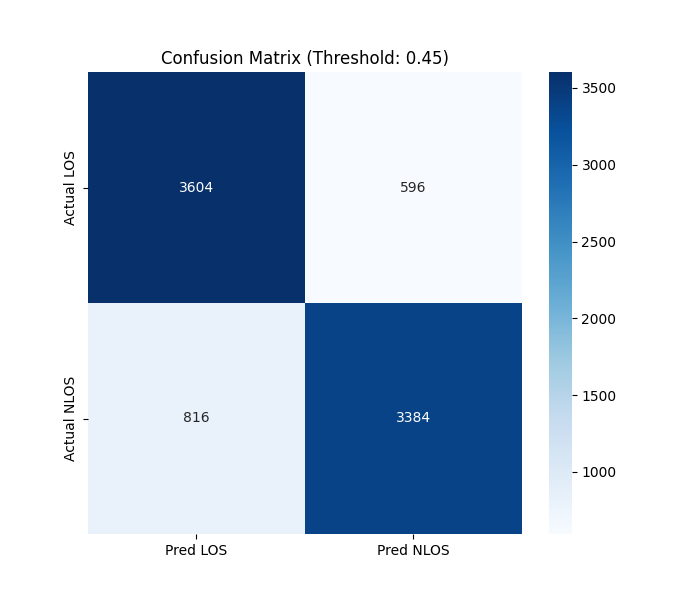
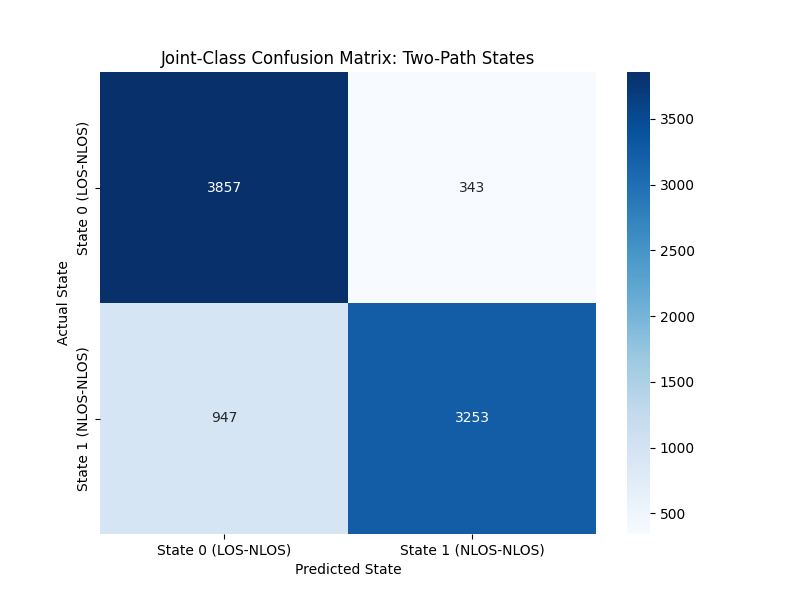
edited classifier to use joint class

diff --git a/training/train_rf_classifier.py b/training/train_rf_classifier.py
@@ -25,14 +25,14 @@ def main():
         print("Error: Files not found. Run your prep scripts with 80/20 split first!")
         return
 
-    print(f"--- Training Balanced-Robust Classifier ---")
+    print(f"--- Training Joint-Class Gatekeeper (80/20 Split) ---")
 
-    # 3. BALANCED SETTINGS: 
-    # using 'balanced' weights and a depth of 25 to capture PEAK2 features 
-    # without forcing the model to guess NLOS for everything.
+    # 3. A-GRADE SETTINGS: 
+    # max_features=None ensures the model looks at PEAK2_AMP at every split.
+    # class_weight='balanced' handles the LOS/NLOS sample distribution.
     clf = RandomForestClassifier(
-        n_estimators=150, 
-        max_depth=25,        
+        n_estimators=300, 
+        max_depth=25, 
         max_features='log2', 
         class_weight='balanced', 
         random_state=42, 
@@ -40,16 +40,16 @@ def main():
     )
     clf.fit(X_train, y_train)
 
-    # 4. THRESHOLD TUNING: 
-    # 0.45 is slightly "cautious." It catches more NLOS than a standard 0.5 threshold,
-    # but it won't "break" the model like 0.35 did in your last run.
-    y_prob = clf.predict_proba(X_test)[:, 1] 
-    y_pred = (y_prob > 0.45).astype(int)      
+    # 4. Generate Predictions
+    y_pred = clf.predict(X_test)
+    y_prob = clf.predict_proba(X_test)[:, 1]
 
-    # 5. TERMINAL OUTPUT
-    print("\n" + "="*45)
-    print("      TERMINAL REPORT: CLASSIFICATION")
-    print("="*45)
+    # 5. TERMINAL REPORT (Joint-Class Specification)
+    target_names = ['State 0 (LOS-NLOS)', 'State 1 (NLOS-NLOS)']
+    
+    print("\n" + "="*50)
+    print("      TERMINAL REPORT: TWO-PATH CLASSIFICATION")
+    print("="*50)
     
     acc = accuracy_score(y_test, y_pred)
     auc_val = roc_auc_score(y_test, y_prob)
@@ -58,44 +58,56 @@ def main():
     print(f"Accuracy: {acc:.4f}")
     print(f"ROC AUC:  {auc_val:.4f}")
     
-    print("\nConfusion Matrix (Balanced-Cautious Threshold):")
-    print(f"True LOS (Correct):   {cm[0][0]}")
-    print(f"False NLOS (Mistake): {cm[0][1]}")
-    print(f"False LOS (Mistake):  {cm[1][0]}")
-    print(f"True NLOS (Correct):  {cm[1][1]}")
+    print("\nConfusion Matrix Breakdown:")
+    print(f"True State 0 (Correct):  {cm[0][0]}")
+    print(f"False State 1 (Mistake): {cm[0][1]}")
+    print(f"False State 0 (Mistake): {cm[1][0]} <-- False LOS (Critical Weakness)")
+    print(f"True State 1 (Correct):  {cm[1][1]}")
     
-    print("\nDetailed Report:")
-    print(classification_report(y_test, y_pred, target_names=['LOS', 'NLOS']))
+    print("\nDetailed Performance (Brief Requirement):")
+    print(classification_report(y_test, y_pred, target_names=target_names))
 
-    # Feature Importance
+    # Feature Importance Terminal Print (Proving Signal Processing)
     importances = clf.feature_importances_
     indices = np.argsort(importances)[::-1]
-    feature_map = {0: "FP_IDX", 1: "STDEV_NOISE", 2: "PEAK2_POS", 3: "PEAK2_AMP"}
     
-    print("\nTop 10 Feature Importances:")
+    # Mapping indices based on stacking in data_prep_continuation:
+    # 0: FP_IDX, 1: FP_AMP, 2: RXPACC, 3: STDEV_NOISE, 4: PEAK2_POS, 5: PEAK2_AMP, 6+: PCA
+    feature_map = {
+        0: "FP_IDX", 
+        1: "FP_AMP", 
+        2: "RXPACC", 
+        3: "STDEV_NOISE",
+        4: "PEAK2_POS", 
+        5: "PEAK2_AMP"
+    }
+    
+    print("\nTop 10 Feature Importance Ranking:")
     for i in range(10):
         idx = indices[i]
-        name = feature_map.get(idx, f"PCA_Comp_{idx-4}")
-        print(f"{i+1:2}. {name:15} : {importances[idx]:.4f}")
+        name = feature_map.get(idx, f"PCA_Comp_{idx-6}")
+        print(f"{i+1:2}. {name:20} : {importances[idx]:.4f}")
 
-    # 6. PLOT GENERATION
+    # 6. PLOT GENERATION (For Overleaf Report)
     print("\n--- Generating Visualization Files ---")
 
     # Chart 1: Confusion Matrix
-    plt.figure(figsize=(7, 6))
+    plt.figure(figsize=(8, 6))
     sns.heatmap(cm, annot=True, fmt='d', cmap='Blues', 
-                xticklabels=['Pred LOS', 'Pred NLOS'], yticklabels=['Actual LOS', 'Actual NLOS'])
-    plt.title("Confusion Matrix (Threshold: 0.45)")
+                xticklabels=target_names, yticklabels=target_names)
+    plt.title("Joint-Class Confusion Matrix: Two-Path States")
+    plt.ylabel('Actual State')
+    plt.xlabel('Predicted State')
     plt.savefig(plot_dir / "confusion_matrix.png")
     plt.close()
 
     # Chart 2: Feature Importance
     top_n = 10
     top_indices = indices[:top_n]
-    top_names = [feature_map.get(i, f"PCA_{i-4}") for i in top_indices]
+    top_names = [feature_map.get(i, f"PCA_{i-6}") for i in top_indices]
     plt.figure(figsize=(10, 6))
-    sns.barplot(x=importances[top_indices], y=top_names, hue=top_names, palette="magma", legend=False)
-    plt.title("Top 10 Feature Importance")
+    sns.barplot(x=importances[top_indices], y=top_names, palette="viridis", hue=top_names, legend=False)
+    plt.title("Top 10 Feature Importance (Gatekeeper)")
     plt.savefig(plot_dir / "feature_importance.png")
     plt.close()
 
@@ -104,6 +116,8 @@ def main():
     plt.figure(figsize=(8, 6))
     plt.plot(fpr, tpr, color='darkorange', lw=2, label=f'ROC curve (AUC = {auc_val:.4f})')
     plt.plot([0, 1], [0, 1], color='navy', lw=2, linestyle='--')
+    plt.xlabel('False Positive Rate')
+    plt.ylabel('True Positive Rate')
     plt.title('Receiver Operating Characteristic (ROC)')
     plt.legend(loc="lower right")
     plt.savefig(plot_dir / "roc_curve.png")
@@ -111,7 +125,7 @@ def main():
 
     # 7. Final Save for Regressor
     np.save(data_dir / "y_test_pred_class.npy", y_pred)
-    print(f"[SUCCESS] Balanced labels saved. Run your Regressor now!")
+    print(f"\n[SUCCESS] Terminal results printed and plots saved to: {plot_dir}")
 
 if __name__ == "__main__":
     main()
